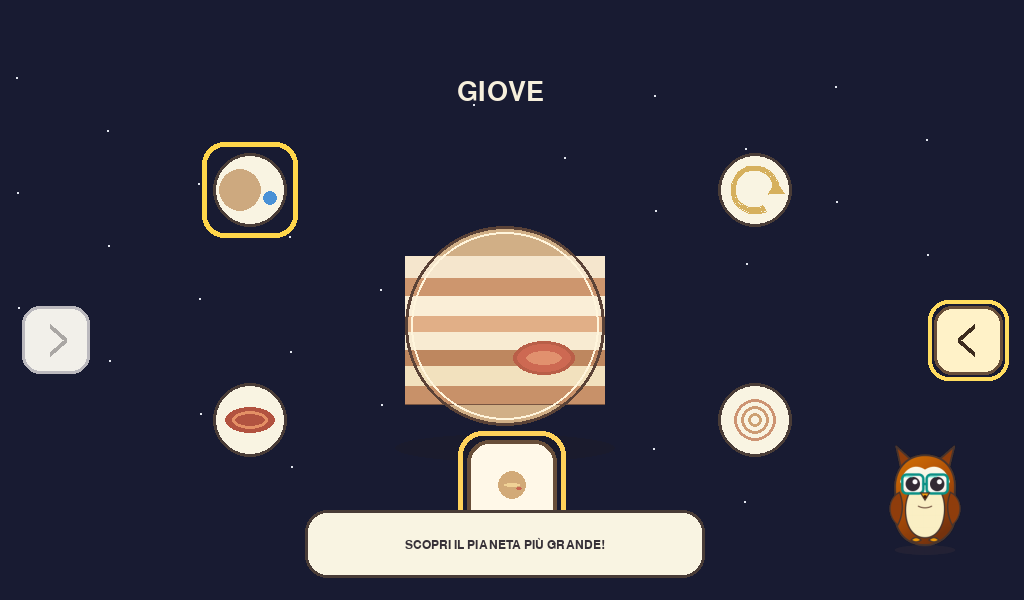
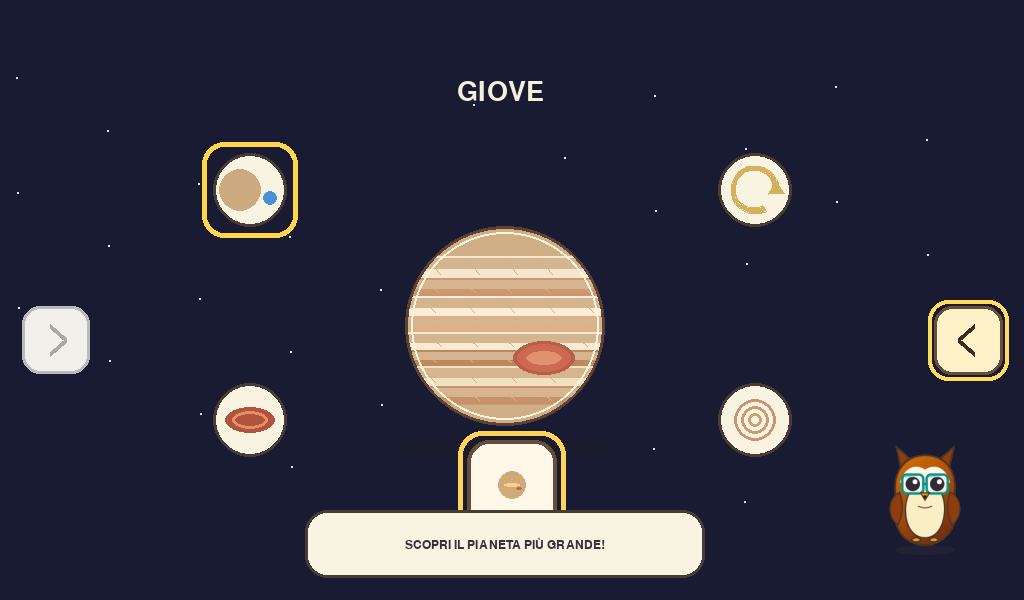
Encyclopedia: iterate space.jupiter - circular-masked bands for clean limb
Fix square-clip artifact, bands now correctly circular. Also added highlight/texture.

Changed region(s): [[0.375, 0.42, 0.5938, 0.69]]

diff --git a/activities/enciclopedia_greia/pages/jupiter.py b/activities/enciclopedia_greia/pages/jupiter.py
@@ -191,9 +191,7 @@ class JupiterPage(EncyclopediaPage):
         highlight = pygame.Surface((radius * 2, radius * 2), pygame.SRCALPHA)
         pygame.draw.circle(highlight, (255, 245, 220, 18), (radius, radius), radius)
         surface.blit(highlight, (center[0] - radius, center[1] - radius))
-        clip = surface.get_clip()
-        surface.set_clip(pygame.Rect(center[0] - radius, center[1] - radius, radius * 2, radius * 2))
-        # Warmer, more distinct bands — storybook but readable
+        # Bands via circular-masked temp for clean limb (avoids square clip)
         bands = (
             (-70, 22, (245, 230, 205)),
             (-48, 18, (205, 150, 110)),
@@ -204,22 +202,23 @@ class JupiterPage(EncyclopediaPage):
             (40, 20, (242, 225, 190)),
             (60, 18, (200, 145, 105)),
         )
-        # Gentle ambient drift always, stronger when "day" is emphasized
         drift = math.sin(self._time * (1.9 if self._day_age > 0 else 0.42)) * (10 if self._day_age > 0 else 4)
         offset = int(drift)
+        mask = pygame.Surface((radius * 2, radius * 2), pygame.SRCALPHA)
+        pygame.draw.circle(mask, (255, 255, 255, 255), (radius, radius), radius)
+        temp = pygame.Surface((radius * 2, radius * 2), pygame.SRCALPHA)
         for yoff, height, color in bands:
-            pygame.draw.rect(surface, color, (center[0] - 118 + offset, center[1] + yoff, 236, height), border_radius=3)
-            # Thin darker seam between bands for definition
-            pygame.draw.line(
-                surface,
-                (120, 85, 65, 38),
-                (center[0] - 118 + offset, center[1] + yoff + height),
-                (center[0] + 118 + offset, center[1] + yoff + height),
-                1,
-            )
-        surface.set_clip(clip)
+            rect = pygame.Rect(radius - 118 + offset, radius + yoff, 236, height)
+            pygame.draw.rect(temp, color, rect, border_radius=3)
+            hl = pygame.Rect(rect.x + 4, rect.y + 2, rect.width - 8, height // 2)
+            pygame.draw.rect(temp, (255, 255, 255, 18), hl, border_radius=2)
+            pygame.draw.line(temp, (120, 85, 65, 42), (rect.x, rect.y + height), (rect.right, rect.y + height), 1)
+            for tx in range(0, 220, 38):
+                sx = rect.x + tx + int(4 * math.sin(self._time * 0.6 + yoff * 0.1 + tx * 0.02))
+                pygame.draw.line(temp, (255, 255, 255, 12), (sx, rect.y + 4), (sx + 12, rect.y + height - 4), 1)
+        temp.blit(mask, (0, 0), special_flags=pygame.BLEND_RGBA_MIN)
+        surface.blit(temp, (center[0] - radius, center[1] - radius))
         pygame.draw.circle(surface, (90, 66, 55), center, radius, 3)
-        # Inner highlight ring for polish
         pygame.draw.circle(surface, (255, 245, 220, 22), center, radius - 6, 2)
 
         storm_center = (544, 358)
